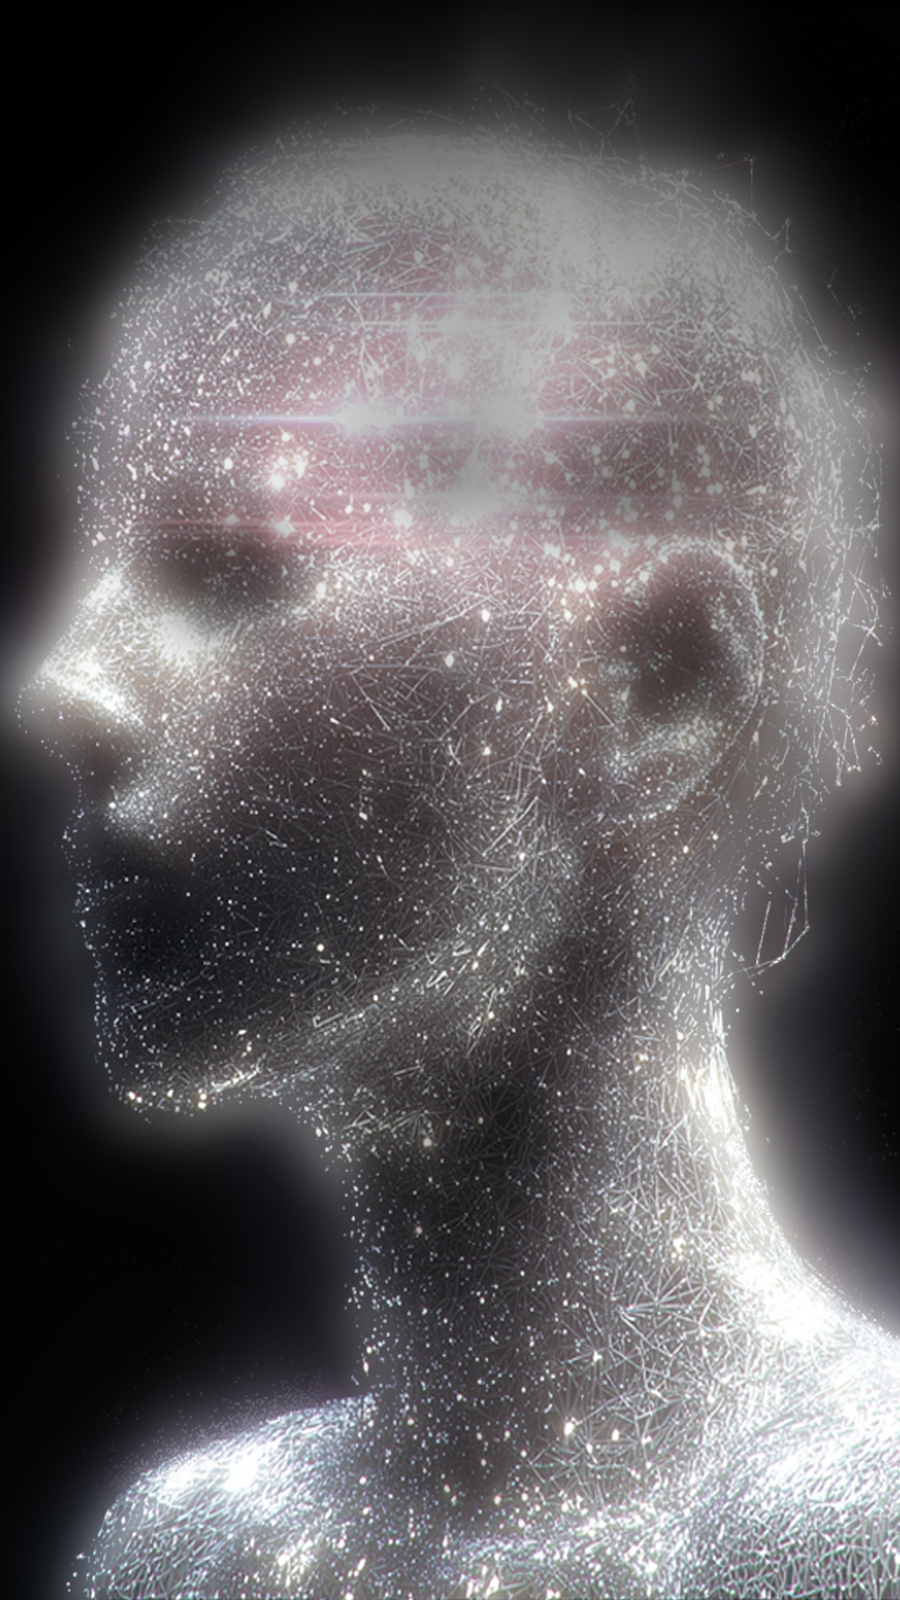
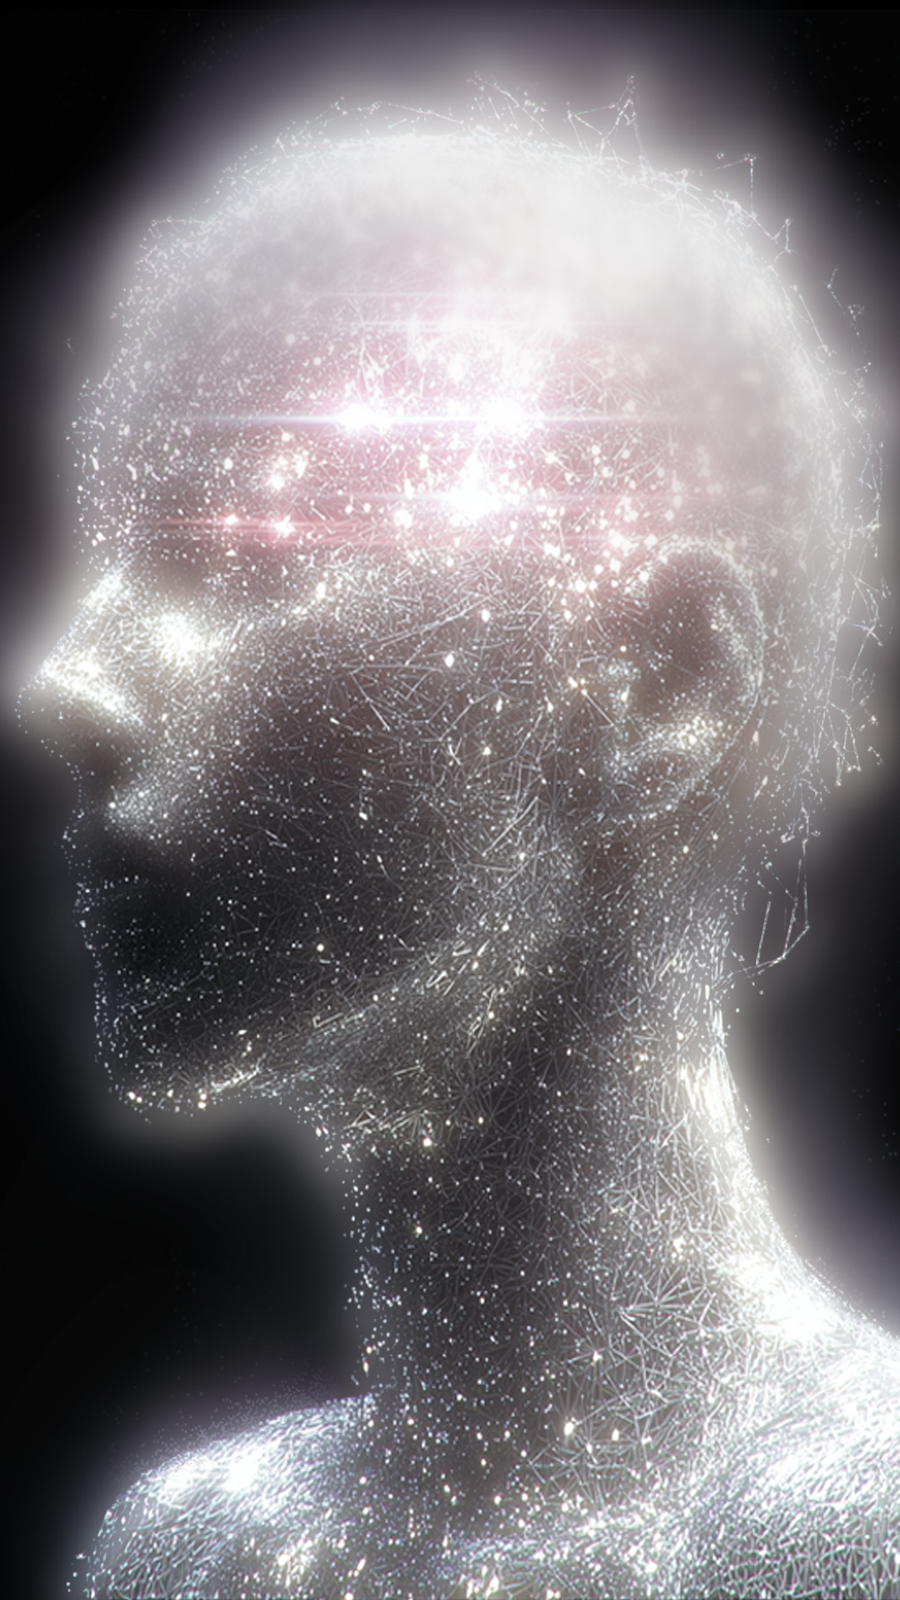
feat: add zone3 bottom-right anchor for 9x16 density map, tune pop alpha

diff --git a/src/hooks/use-grain.ts b/src/hooks/use-grain.ts
@@ -16,7 +16,7 @@ export const GRAIN = {
     churnRate: 0.13,
     basePop: 0.0,
     maxPop: 0.3,
-    popAlphaMin: 3,
+    popAlphaMin: 4,
     popAlphaMax: 30,
     baseAlpha: 5,
   } as GrainParams,
@@ -25,7 +25,7 @@ export const GRAIN = {
     churnRate: 0.33,
     basePop: 0.0,
     maxPop: 0.3,
-    popAlphaMin: 3,
+    popAlphaMin: 8,
     popAlphaMax: 24,
     baseAlpha: 6,
   } as GrainParams,
@@ -35,7 +35,7 @@ export const GRAIN = {
   densityMaps: [
     { src: "/density-map-16x9.png", ar: 16 / 9, scale: 1.5, offsetY: -0.10, zone3: { scale: 1.25, offsetX: 0.10, offsetY: 0.075 } },
     { src: "/density-map-1x1.png",  ar: 1,      scale: 1,   offsetY: 0,     zone3: null },
-    { src: "/density-map-9x16.png", ar: 9 / 16, scale: 1,   offsetY: 0,     zone3: { scale: 1.75, offsetX: 0, offsetY: 0.15 } },
+    { src: "/density-map-9x16.png", ar: 9 / 16, scale: 1,   offsetY: 0,     zone3: { scale: 1.75, offsetX: 0, offsetY: 0, anchor: "br" as const } },
   ],
   densityMapFallback: "/density-map.png",
   overrideHoldMs: 1000,
@@ -110,7 +110,7 @@ export function useGrain(
 
     let currentEntryScale = 1;
     let currentEntryOffsetY = 0;
-    let currentZone3: { scale: number; offsetX: number; offsetY: number } | null = null;
+    let currentZone3: { scale: number; offsetX: number; offsetY: number; anchor?: "br" } | null = null;
 
     function pickDensityEntry() {
       const viewportAr = window.innerWidth / window.innerHeight;
@@ -167,8 +167,13 @@ export function useGrain(
       const z3 = inZone3 && currentZone3 ? currentZone3 : null;
       drawW *= ds * (z3 ? z3.scale : 1);
       drawH *= ds * (z3 ? z3.scale : 1);
-      drawX = (w - drawW) / 2 + (z3 ? w * z3.offsetX : 0);
-      drawY = (h - drawH) / 2 + h * (z3 ? z3.offsetY : currentEntryOffsetY);
+      if (z3?.anchor === "br") {
+        drawX = w - drawW + w * z3.offsetX;
+        drawY = h - drawH + h * z3.offsetY;
+      } else {
+        drawX = (w - drawW) / 2 + (z3 ? w * z3.offsetX : 0);
+        drawY = (h - drawH) / 2 + h * (z3 ? z3.offsetY : currentEntryOffsetY);
+      }
 
       offCtx.drawImage(densityImg, drawX, drawY, drawW, drawH);
       const mapData = offCtx.getImageData(0, 0, w, h).data;
